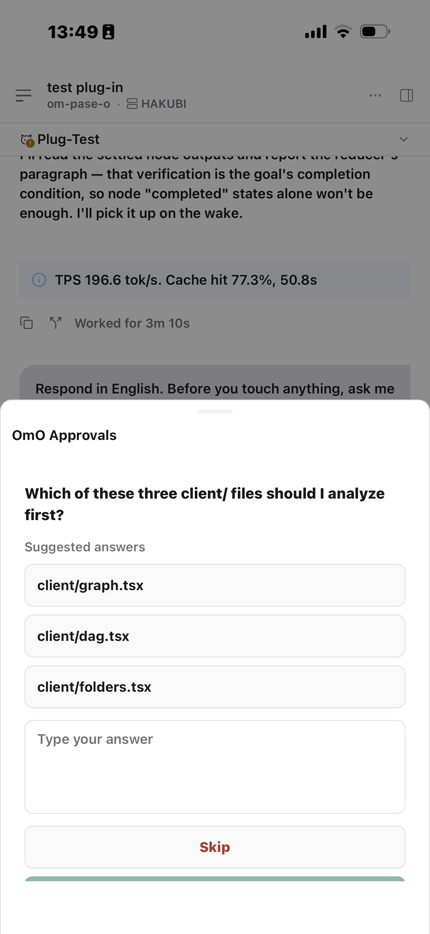
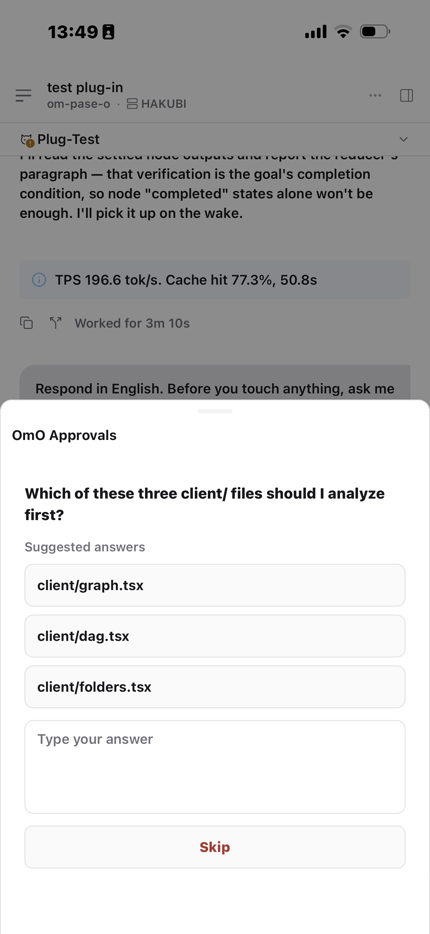
docs: 2x2 mobile gallery, clean clipped bar in approvals shot

Changed region(s): [[0.0605, 0.9315, 0.9372, 0.9625]]

diff --git a/README.md b/README.md
@@ -82,14 +82,18 @@ label.
 
 <table>
 <tr>
-<td><img src="docs/images/mobile-dag-card.png" width="250" alt="DAG card on a phone"></td>
-<td><img src="docs/images/mobile-dag-sheet.png" width="250" alt="DAG pill sheet on a phone"></td>
-<td><img src="docs/images/mobile-approval.png" width="250" alt="Approvals sheet on a phone"></td>
-<td><img src="docs/images/mobile-todo.png" width="250" alt="Todo card on a phone"></td>
+<td width="50%"><img src="docs/images/mobile-dag-card.png" width="300" alt="DAG card on a phone"></td>
+<td width="50%"><img src="docs/images/mobile-dag-sheet.png" width="300" alt="DAG pill sheet on a phone"></td>
 </tr>
 <tr>
 <td align="center"><sub>Chat DAG card</sub></td>
 <td align="center"><sub>DAG pill sheet</sub></td>
+</tr>
+<tr>
+<td width="50%"><img src="docs/images/mobile-approval.png" width="300" alt="Approvals sheet on a phone"></td>
+<td width="50%"><img src="docs/images/mobile-todo.png" width="300" alt="Todo card on a phone"></td>
+</tr>
+<tr>
 <td align="center"><sub>Approvals sheet</sub></td>
 <td align="center"><sub>Live todo card</sub></td>
 </tr>
